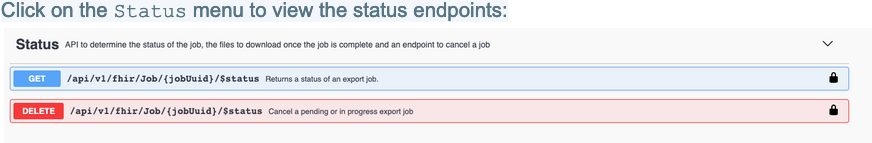
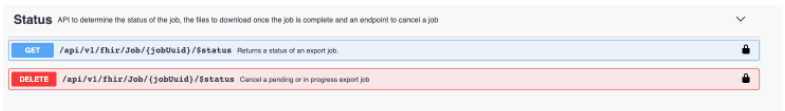
Add and rearrange missing images, fix alt text

diff --git a/website/tutorial-postman.md b/website/tutorial-postman.md
@@ -52,43 +52,43 @@ The Postman directions below are broken up into the following sections:
 
 Go to the Postman site [here](https://www.postman.com/downloads/) to download and install the app version of Postman. Because only the app version of Postman is allowed in Production, we promote the use of this version in Sandbox as well. The web version is available to you in Sandbox, but it will not be in Production. The directions below follow along with the app version of Postman.
 
-![alt text](./assets/img/sandbox/postman-1.png "download postman")
+![download postman](./assets/img/sandbox/postman-1.png "download postman")
 
 You will then be directed to an account sign-in page. Note, you are able to directly access the app and skip sign-in by clicking the link at the bottom of the page as shown below. 
 
-![alt text](./assets/img/sandbox/postman-2.png "postman signin")
+![postman signin](./assets/img/sandbox/postman-2.png "postman signin")
 
 ### Creating a new collection
 Click on the orange **+ New** button in the top left corner of the app.
 
-![alt text](./assets/img/sandbox/postman-3.png "postman create new button")
+![postman create new button](./assets/img/sandbox/postman-3.png "postman create new button")
 
 Choose **Create New** to create a new Collection:
-![alt text](./assets/img/sandbox/postman-4.png "postman create new collection")  
+![postman create new collection](./assets/img/sandbox/postman-4.png "postman create new collection")  
 Configure as follows:  
 Name: **ab2d**  
 Choose: **Create.**  
-![alt text](./assets/img/sandbox/postman-5.png "postman create new collection details")  
+![postman create new collection details](./assets/img/sandbox/postman-5.png "postman create new collection details")  
 In the left hand panel, click on the three dot’s next the ab2d node you just created and choose **Add Request:**  
-![alt text](./assets/img/sandbox/postman-6.png "postman new request")
+![postman new request](./assets/img/sandbox/postman-6.png "postman new request")
 
 ### Saving a request
 Configure the “SAVE REQUEST” page as follows:
 - Request name: **retrieve-a-token**
 - Select: **Save to ab2d** at bottom right corner.
 
-![alt text](./assets/img/sandbox/postman-7.png "postman save new request")
+![postman save new request](./assets/img/sandbox/postman-7.png "postman save new request")
 
 ### Posting a request
 Click on **GET, retrieve-a-token** under the ab2d node and immediately, a new tab will appear to the right.  
-![alt text](./assets/img/sandbox/postman-8.png "postman post a request")
+![postman post a request](./assets/img/sandbox/postman-8.png "postman post a request")
 
 Alter the **GET** request to a **POST** request:  
-![alt text](./assets/img/sandbox/postman-9.png "postman change get to post")
+![postman change get to post](./assets/img/sandbox/postman-9.png "postman change get to post")
 
 In the bar next to **POST** enter the following URL:  
 https://test.idp.idm.cms.gov/oauth2/aus2r7y3gdaFMKBol297/v1/token  
-![alt text](./assets/img/sandbox/postman-10.png "postman enter url")
+![postman enter url](./assets/img/sandbox/postman-10.png "postman enter url")
 
 Configure the Params tab as follows: 
 
@@ -111,7 +111,7 @@ Configure the Params tab as follows:
 </tbody>
 </table>
 
-![alt text](./assets/img/sandbox/postman-11.png "postman enter params")
+![postman enter params](./assets/img/sandbox/postman-11.png "postman enter params")
 Configure the Headers tab as follows:  
 Choose one of the sample Base64-encoded credentials from a sample PDP Sponsor. This will be placed under the **Value** column by **Authorization**.
  
@@ -170,11 +170,11 @@ Choose one of the sample Base64-encoded credentials from a sample PDP Sponsor. T
   </tbody>
   </table>
 
-![alt text](./assets/img/sandbox/postman-12.png "postman headers filled")
+![postman headers filled](./assets/img/sandbox/postman-12.png "postman headers filled")
 
 Select **Send.**  
 In the body below you should see a token type, expires in statement, an access token, and scope statement as shown below:  
-![alt text](./assets/img/sandbox/postman-13.png "postman response body")
+![postman response body](./assets/img/sandbox/postman-13.png "postman response body")
 You will use this bearer token, specified by the **access_token** value (in the next hour), to access Sandbox endpoints in Swagger, which we explain how to use below.
 
 ## Step 2:  Swagger Instructions
@@ -187,25 +187,25 @@ The Swagger directions below are broken into the following sections:
 
 ### Authorize a bearer token
 First - you must access the AB2D Swagger site by going [here](https://sandbox.ab2d.cms.gov/swagger-ui/index.html). Click “authorize” in the top right corner.  
-![alt text](./assets/img/sandbox/swagger-1.png "swagger authorize")  
+![swagger authorize](./assets/img/sandbox/swagger-1.png "swagger authorize")  
 Use the bearer token (retrieved in the last 24 hours by you, and no other user) to authorize entry into the Sandbox endpoints. You will place this in the box under Value, adding the word **Bearer before the token.**  
-![alt text](./assets/img/sandbox/swagger-2.png "swagger authorize api key")  
+![swagger authorize api key](./assets/img/sandbox/swagger-2.png "swagger authorize api key")  
 Be sure to leave a space between the word **Bearer** and the actual bearer token. Also remove any quotes from the token itself. Click **Authorize**.
-![alt text](./assets/img/sandbox/swagger-3.png "swagger enter api key")  
+![swagger enter api key](./assets/img/sandbox/swagger-3.png "swagger enter api key")  
 You will see the following message:  
-![alt text](./assets/img/sandbox/swagger-4.png "swagger authorize response")  
+![swagger authorize response](./assets/img/sandbox/swagger-4.png "swagger authorize response")  
 Click Close to **close** the window.  
 
 ## Export a Job ID
 Open up the **Export** menu to view all possible endpoints:  
-![alt text](./assets/img/sandbox/swagger-5.png "swagger export menu")  
+![swagger export menu](./assets/img/sandbox/swagger-5.png "swagger export menu")  
 
 Choose **/api/v1/fhir/Patient/$export** to initiate a Part A & B bulk claim export job. Then choose to **Try it out** in the right hand corner.  
-![alt text](./assets/img/sandbox/swagger-6.png "swagger export parameters")  
+![swagger export parameters](./assets/img/sandbox/swagger-6.png "swagger export parameters")  
 Under **Prefer** add **respond-async** and then click the big blue bar to **Execute.** 
-![alt text](./assets/img/sandbox/swagger-7.png "swagger execute")  
+![swagger execute](./assets/img/sandbox/swagger-7.png "swagger execute")  
 In the responses, look at the first code provided under **Server response**. Below that are all the other possible responses. The correct response should be a **202**, which means **Accepted**. This means the job has been created.  
-![alt text](./assets/img/sandbox/swagger-8.png "swagger response")  
+![swagger response](./assets/img/sandbox/swagger-8.png "swagger response")  
 From the information provided in the response, copy the Job ID from within the status request. 
 Format:  
 *content-location: http://sandbox.ab2d.cms.gov/api/v1/fhir/Job/**{job id}**/$status*
@@ -216,31 +216,34 @@ Example:
 
 ## Check the status of your job
 While these are test jobs and most will run immediately, it is good practice to understand the steps associated with running a job, including checking its status.  
-![alt text](./assets/img/sandbox/swagger-9.png "swagger job status")  
 
 Click on the **Status** menu to view the status endpoints:  
-![alt text](./assets/img/sandbox/swagger-10.png "swagger endpoint status")  
+![swagger job status](./assets/img/sandbox/swagger-9.png "swagger job status")  
 
 Copy the Job ID from the Export step. Click on the **GET /api/v1/fhir/{jobUuid}/$status** endpoint, click **Try it out** and paste the Job ID into the box provided.  
-![alt text](./assets/img/sandbox/swagger-11.png "swagger try it out")  
+![swagger endpoint status](./assets/img/sandbox/swagger-10.png "swagger endpoint status")  
+
 Click on the big blue bar labeled **Execute**.  
- 
+![swagger try it out](./assets/img/sandbox/swagger-11.png "swagger try it out")  
+
 In the responses, view the first value. This is the server response. There are two possible values, 202 or 200. If the response is 202, this means that the job is still in progress. It will give you an indication of the job progress from 1 to 100%.  
+
+![swagger response](./assets/img/sandbox/swagger-12.png "swagger response")  
 
 You will need to re-click on the Execute blue bar periodically until the status returns a 200. This means the job is done and the response will contain a list of files. These files can then be downloaded and contain the claim records for our sample job.  
 
 ## Download your Job ID
 
 Click on the **Download** menu in swagger. Select the **GET /api/v1/fhir/Job/{jobUuid}/file/{filename}** endpoint to download a file. Click **Try it out**. Enter the Job ID of the job you created and the file name, then press the **Execute** big blue bar.  
+![swagger download](./assets/img/sandbox/swagger-13.png "swagger download")  
 
 It might take a while for the file to be downloaded depending on how big the job is. The browser may even stop responding, but it will eventually respond. The **Server response** value should be a **200** and the **Response body** will contain the claims data. To download the data into a file, click on the Download button in the lower right corner. This will be saved as an ndjson (new line delimited JSON) file in your downloads. This data format will be identical to the production data. Only the Job ID from this file is needed - please send the Job ID to the AB2D team per the instructions emailed to your organizations assigned ADOS.  
 
-![alt text](./assets/img/sandbox/swagger-12.png "swagger try it out response")  
-![alt text](./assets/img/sandbox/swagger-13.png "swagger try it out response")  
+![swagger response body](./assets/img/sandbox/swagger-14.png "swagger response body")  
+![swagger json file](./assets/img/sandbox/swagger-15.png "swagger json file")  
 
 # Questions?
 
 Having issues or concerns - please get in touch.  
 [ab2d@gmail.com](mailto:ab2d@gmail.com) - direct email  
 [AB2D Google Group](https://groups.google.com/u/1/g/cms-ab2d-api) - join the conversation
-  
